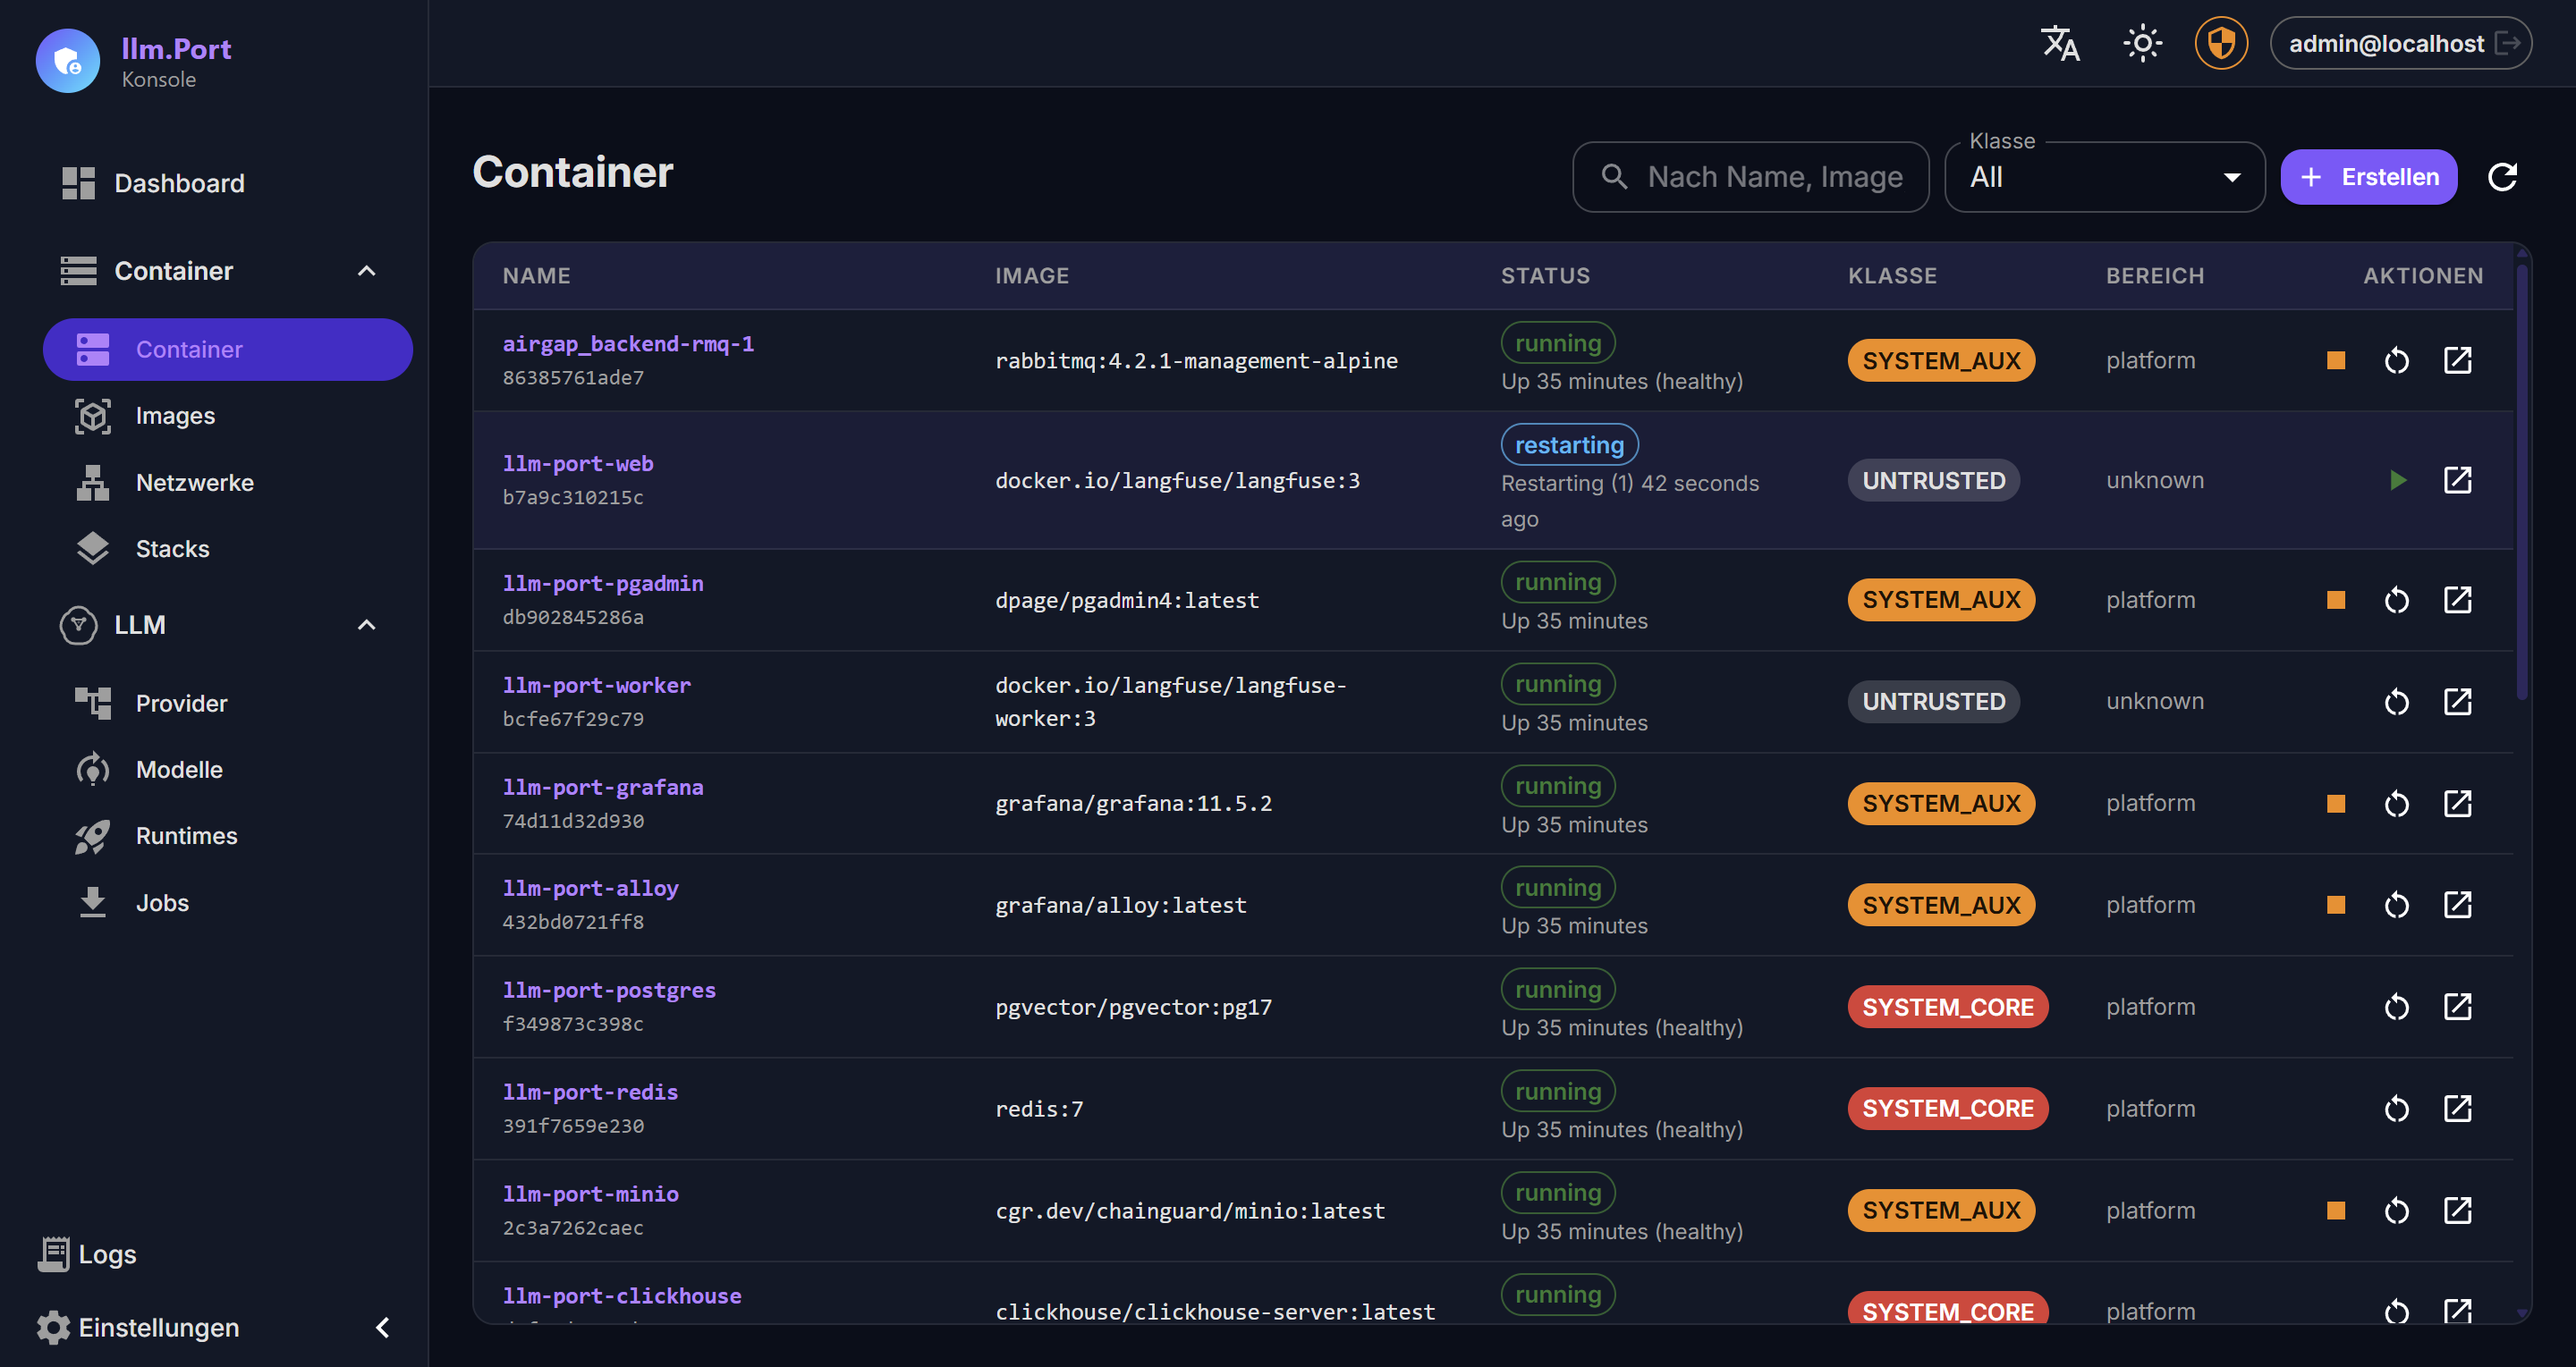
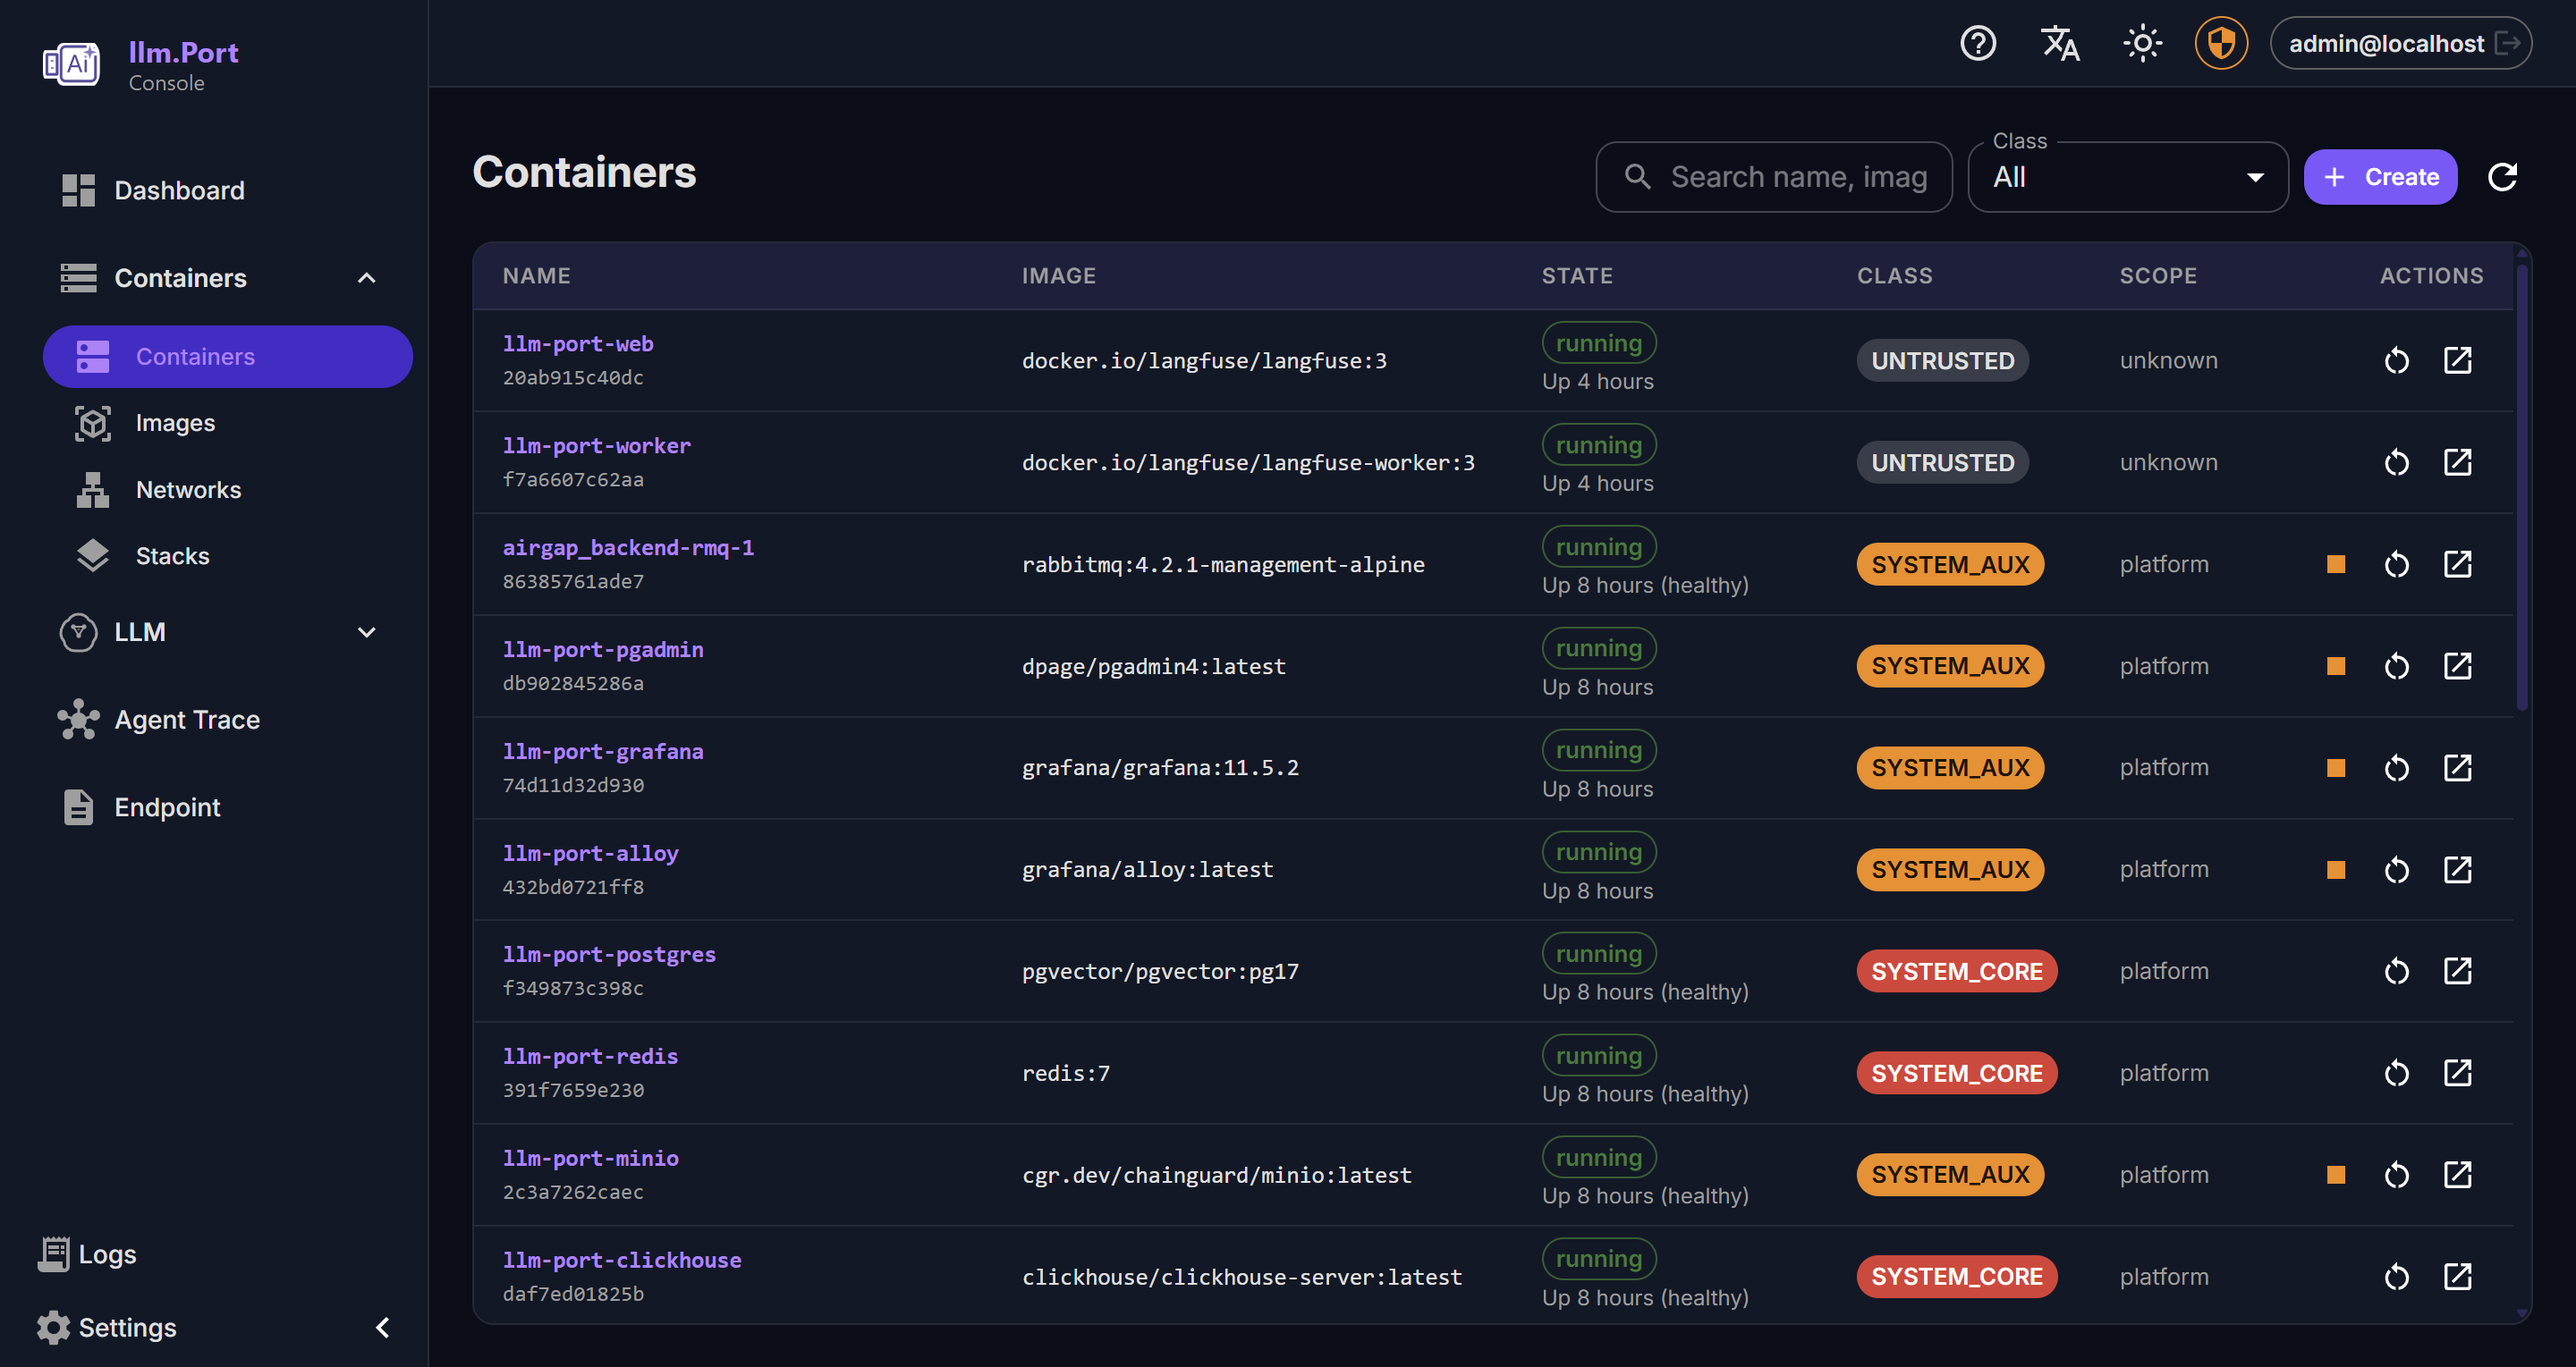
update docs

diff --git a/profile/README.md b/profile/README.md
@@ -7,7 +7,11 @@
 
 <img src="./images/containers.png">
 
+<img src="./images/models.png">
+
 <img src="./images/logging.png">
+
+<img src="./images/trace.png">
 
 ## What we’re building
 
@@ -16,6 +20,14 @@
 - **Policies & controls**: auth (JWT), RBAC, quotas/rate limits, model allow-lists, request/response logging
 - **Observability by default**: traces ([Langfuse](https://langfuse.com/)) + logs ([Loki](https://grafana.com/oss/loki/)/[Grafana](https://grafana.com/grafana)) wired through the gateway
 - **Optional local runtime management**: deploy and operate containerized inference + model assets via [Huggingface](https://huggingface.co/)
+
+## Features
+
+- **OpenAI-compatible gateway**: `/v1/models`, `/v1/chat/completions`, `/v1/embeddings`
+- **Centralized policy enforcement**: tenant-aware auth, model/provider restrictions, and rate controls
+- **Unified observability**: live traces, request metadata, and operational dashboards
+- **Ops console**: container/image/network/stack controls with RBAC and audit logs
+- **System initialization flow**: guided setup for shared services and gateway configuration
 
 ## Why it matters
 
